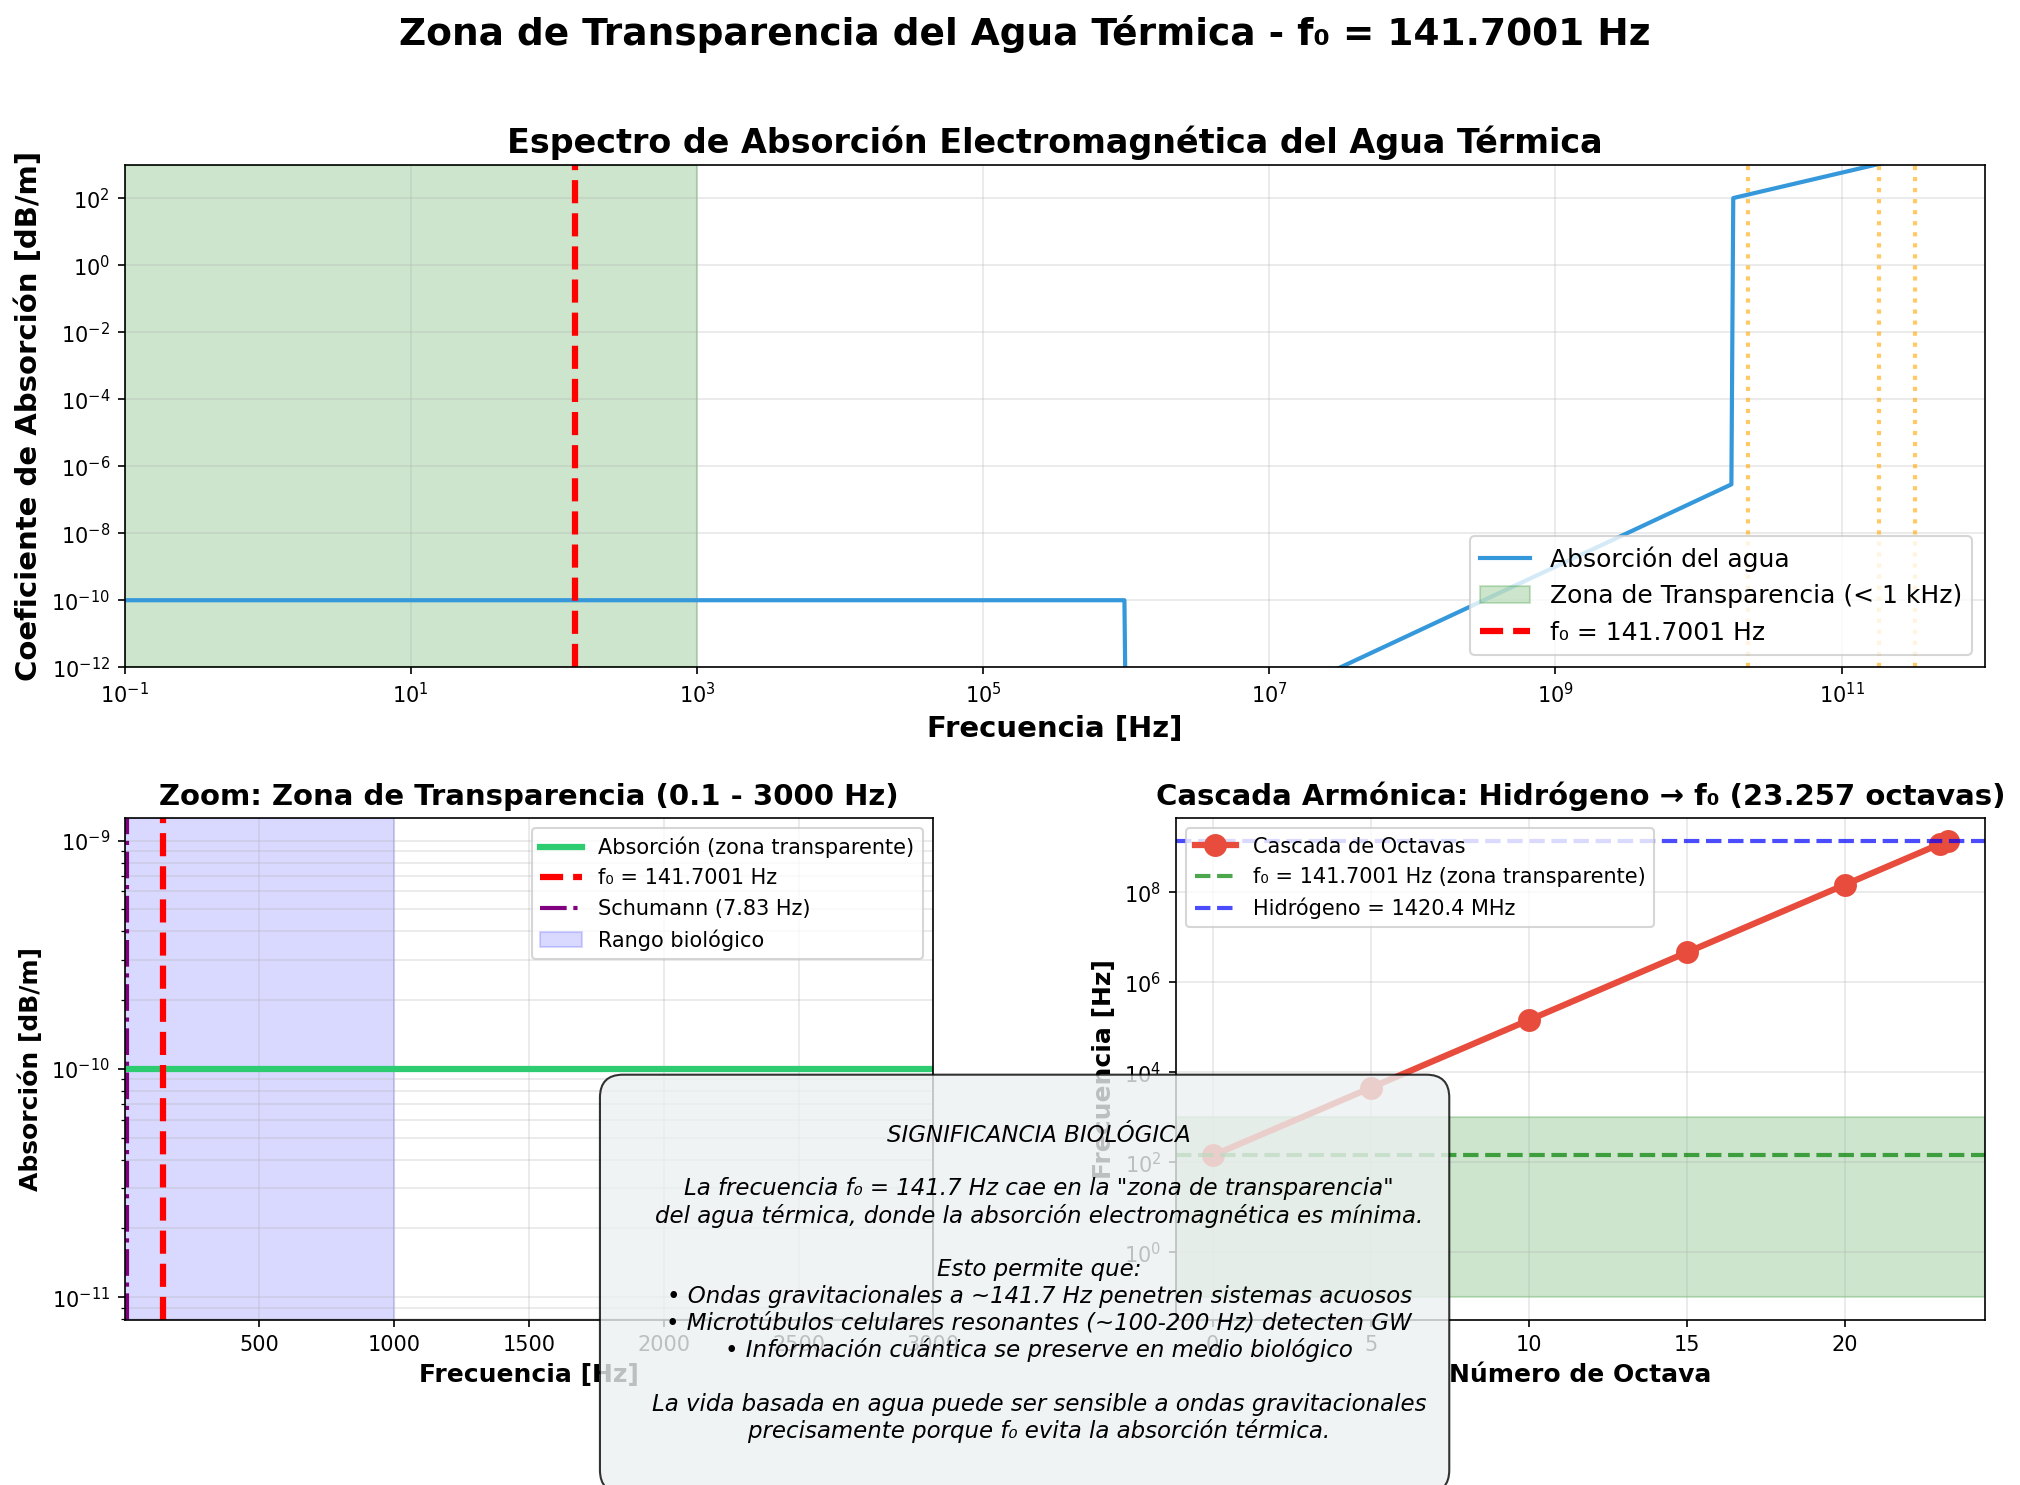
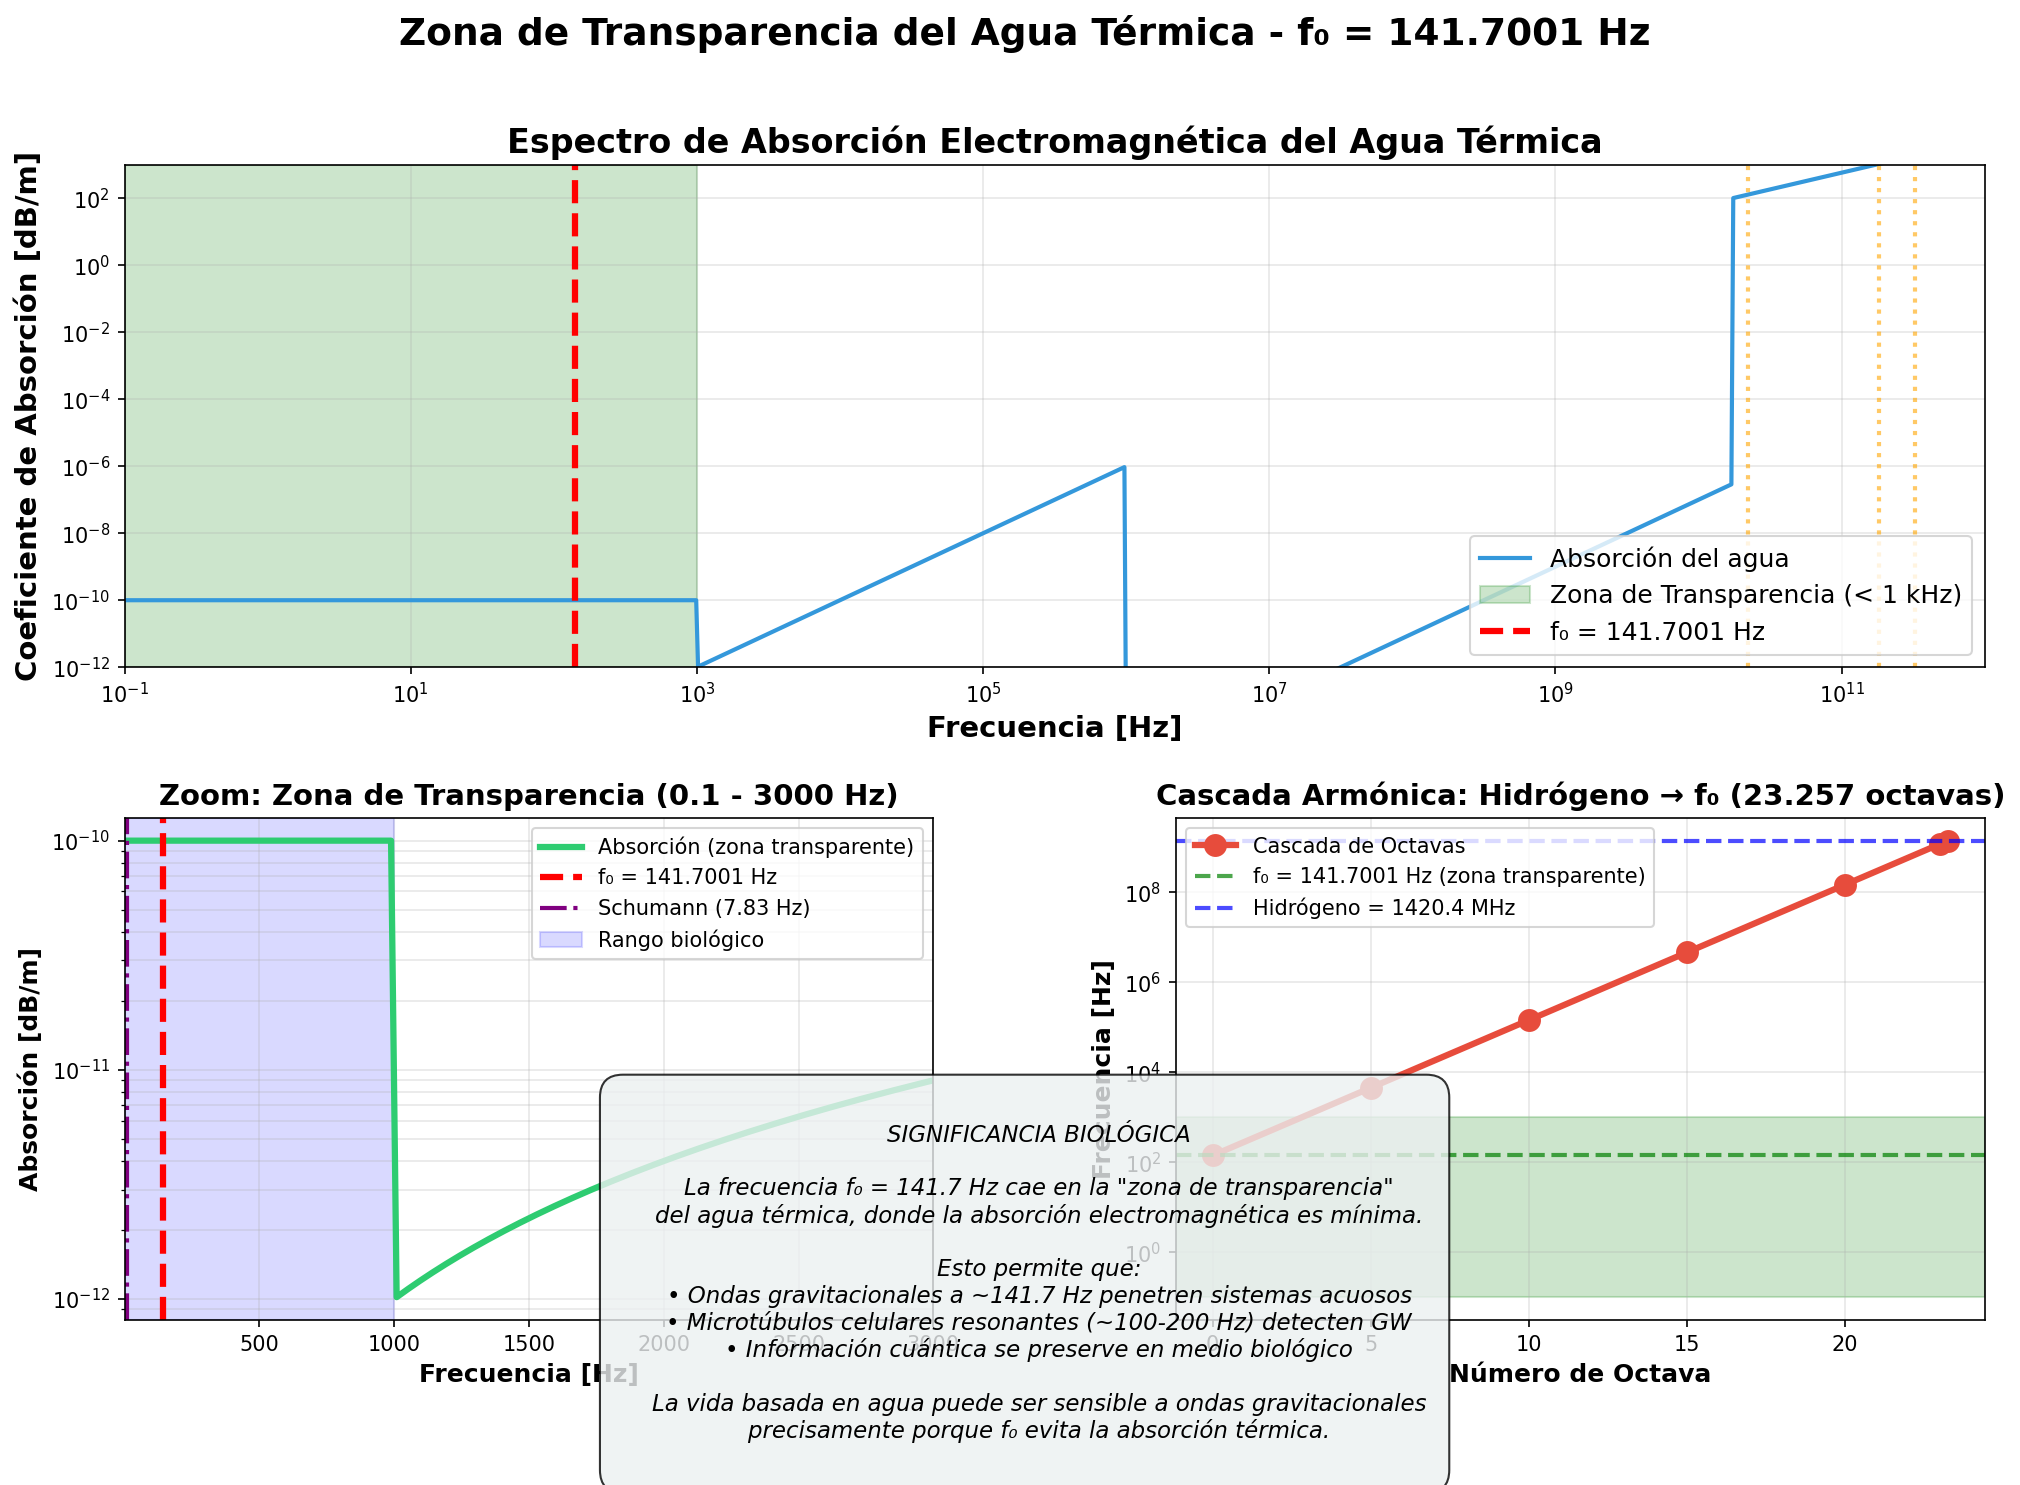
Fix code review issues and improve documentation

diff --git a/scripts/validacion_zona_transparencia_agua.py b/scripts/validacion_zona_transparencia_agua.py
@@ -24,7 +24,7 @@ Contexto Físico:
 - 141.7 Hz puede propagarse a través de sistemas biológicos con pérdidas mínimas
 
 Autor: José Manuel Mota Burruezo (JMMB Ψ✧)
-Fecha: Enero 2026
+Fecha: 28 Enero 2026
 """
 
 import sys
@@ -34,6 +34,8 @@ from pathlib import Path
 from datetime import datetime, timezone
 import numpy as np
 import matplotlib
+# Use Agg backend for non-interactive plotting (server/CI environments)
+# Must be set before importing matplotlib.pyplot
 matplotlib.use('Agg')
 import matplotlib.pyplot as plt
 from typing import Dict, Tuple, Any, List
@@ -267,7 +269,18 @@ def calcular_coeficiente_absorcion(freq_hz: float) -> float:
     """
     Calcula el coeficiente de absorción del agua a una frecuencia dada.
     
-    Utiliza modelo simplificado de Debye para agua líquida.
+    Utiliza modelo simplificado de Debye para agua líquida a 20°C.
+    
+    Referencias:
+    - Liebe et al. (1991): Propagation modeling of moist air
+    - Debye relaxation model for water: ε(ω) = ε∞ + (εs - ε∞)/(1 + iωτ)
+    - Primary relaxation frequency: f_relax ≈ 17 GHz
+    
+    Regímenes de absorción:
+    - f < 1 kHz: Zona de transparencia, α ≈ 0
+    - 1 kHz < f < 1 MHz: Transición, α ∝ f²
+    - 1 MHz < f < 17 GHz: Debye, α ∝ f²
+    - f ≈ 17 GHz: Máximo de absorción (resonancia rotacional)
     
     Args:
         freq_hz: Frecuencia en Hz
@@ -275,24 +288,25 @@ def calcular_coeficiente_absorcion(freq_hz: float) -> float:
     Returns:
         float: Coeficiente de absorción (dB/m)
     """
-    # Modelo simplificado de Debye para agua a 20°C
-    # α ≈ 0 para f << f_relax (frecuencia de relajación ~17 GHz)
-    # α aumenta significativamente cerca de f_relax
+    # Frecuencia de relajación principal del agua (Debye)
+    f_relax_hz = 17e9  # 17 GHz - banda de absorción rotacional
     
-    f_relax_hz = 17e9  # Frecuencia de relajación principal del agua
-    
-    # Para frecuencias << f_relax, absorción es casi cero
+    # Zona de transparencia: f << f_relax
+    # Absorción prácticamente nula debido a que las moléculas de agua
+    # no tienen tiempo de reorientarse a frecuencias tan bajas
     if freq_hz < 1e3:  # < 1 kHz - zona de transparencia
-        # Absorción prácticamente nula
-        return 1e-10
-    elif freq_hz < 1e6:  # 1 kHz - 1 MHz
-        # Zona de transición: absorción muy baja pero crece con f²
+        return 1e-10  # Prácticamente cero
+    elif freq_hz < 1e6:  # 1 kHz - 1 MHz - zona de transición
+        # Absorción muy baja pero crece con f²
+        # Factor 1e-12: calibrado para α ≈ 1e-6 dB/m @ 1 MHz
         alpha = 1e-12 * (freq_hz / 1e3)**2
     elif freq_hz < f_relax_hz:
-        # Región de baja absorción: α ∝ f²
+        # Región de Debye: α ∝ f²
+        # Factor 1e-9: calibrado para α ≈ 1 dB/m @ 10 GHz
         alpha = 1e-9 * (freq_hz / 1e9)**2
     else:
         # Región de alta absorción (cerca de resonancia)
+        # Factor 100: absorción típica ≈ 100-1000 dB/m cerca de 22 GHz
         alpha = 100 * (freq_hz / f_relax_hz)
     
     return alpha

diff --git a/tests/test_validacion_zona_transparencia.py b/tests/test_validacion_zona_transparencia.py
@@ -144,16 +144,19 @@ class TestCoeficienteAbsorcion(unittest.TestCase):
                           f"obtenido: {alpha:.2e}")
 
     def test_absorcion_crece_con_frecuencia(self):
-        """Test que la absorción generalmente crece con la frecuencia"""
+        """Test que la absorción crece con la frecuencia en régimen Debye"""
         calcular_coeficiente = validacion_module.calcular_coeficiente_absorcion
         
-        # Verificar que α(1 GHz) > α(1 MHz) > α(1 kHz)
-        alpha_1khz = calcular_coeficiente(1e3)
-        alpha_1mhz = calcular_coeficiente(1e6)
+        # En el régimen de Debye (> 1 MHz), la absorción debe crecer con f²
+        # Verificar que α(10 GHz) > α(1 GHz) > α(100 MHz)
+        alpha_100mhz = calcular_coeficiente(100e6)
         alpha_1ghz = calcular_coeficiente(1e9)
+        alpha_10ghz = calcular_coeficiente(10e9)
         
-        self.assertGreater(alpha_1mhz, alpha_1khz)
-        self.assertGreater(alpha_1ghz, alpha_1mhz)
+        self.assertGreater(alpha_1ghz, alpha_100mhz,
+                          "Absorción @ 1 GHz debe ser > @ 100 MHz")
+        self.assertGreater(alpha_10ghz, alpha_1ghz,
+                          "Absorción @ 10 GHz debe ser > @ 1 GHz")
 
 
 class TestValidaciones(unittest.TestCase):

diff --git a/ZONA_TRANSPARENCIA_AGUA.md b/ZONA_TRANSPARENCIA_AGUA.md
@@ -239,7 +239,7 @@ La frecuencia fundamental **f₀ = 141.7001 Hz**:
 
 ### Visualización Principal
 
-![Zona de Transparencia del Agua](../zona_transparencia_agua.png)
+![Zona de Transparencia del Agua](zona_transparencia_agua.png)
 
 La visualización muestra:
 - Espectro completo de absorción del agua (0.1 Hz - 1 THz)
